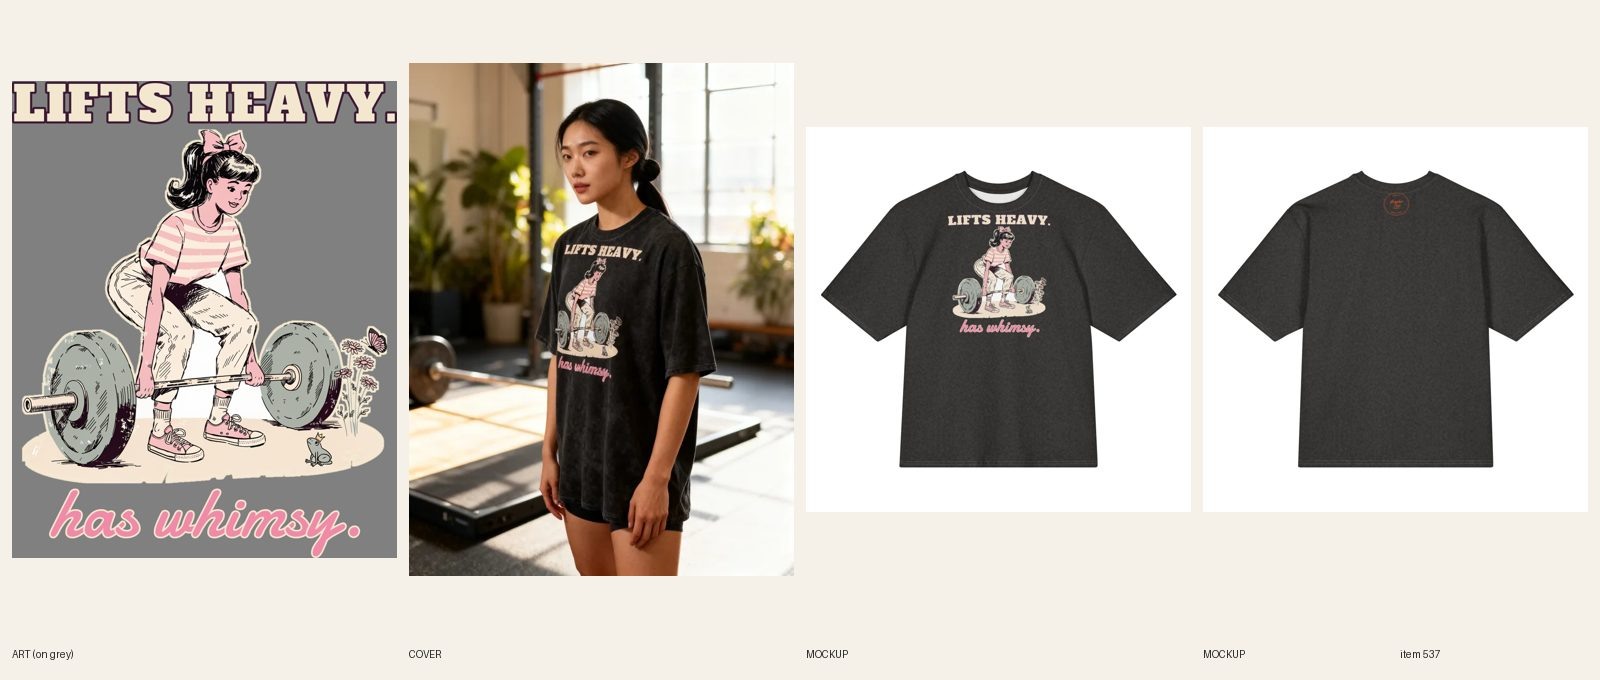
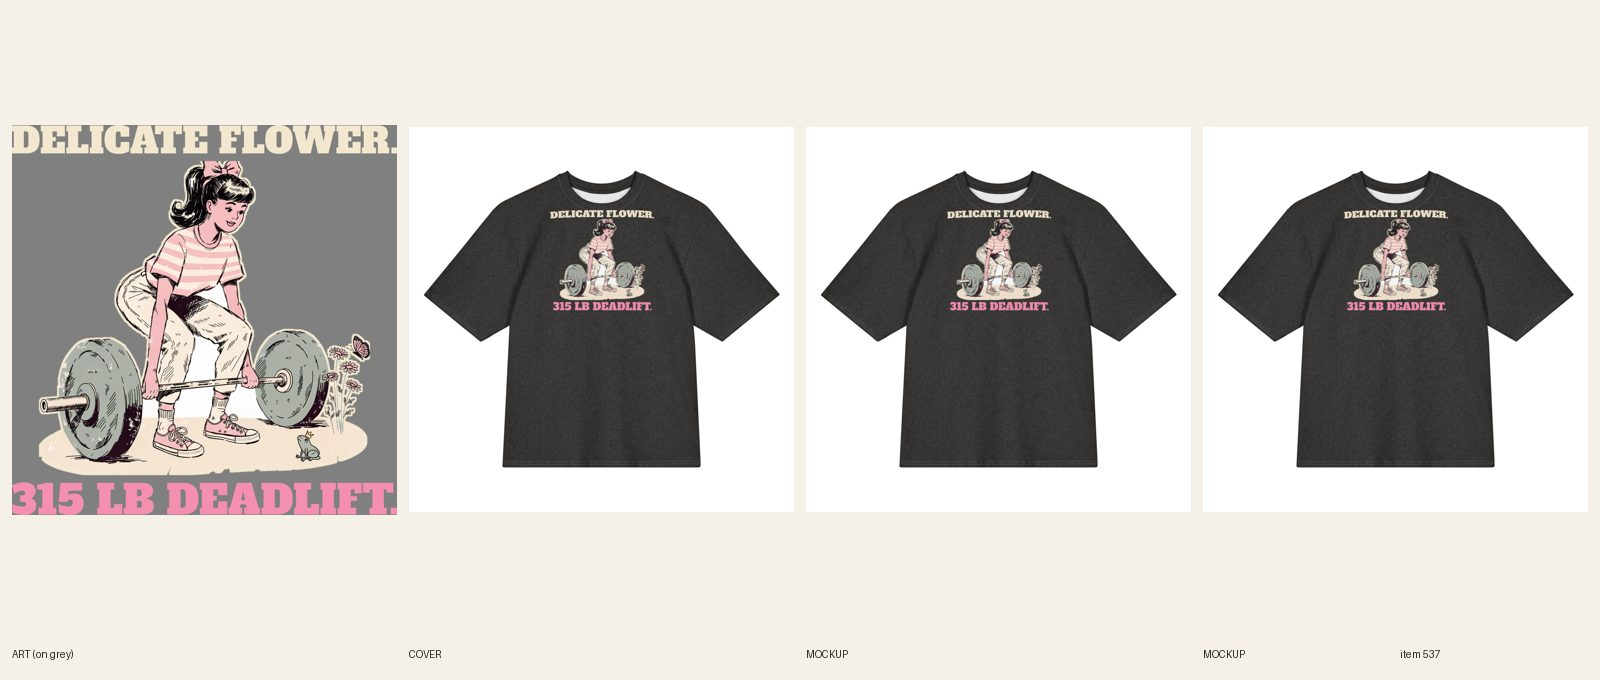
[E] review 537 redid #537 Women's Gym pump cover (line + type: DELICATE FLOWER. / 315 LB DEADLIFT., same bow-deadlifter art, Alfa Slab One, washed black ground, 10/10 synced). REVIEW. fal $0.

Changed region(s): [[0.0, 0.0926, 0.5, 0.8647], [0.8438, 0.2779, 0.9062, 0.4632], [0.5938, 0.3088, 0.6562, 0.4941]]

diff --git a/docs/pipeline/537-gym-pump-cover-lifts-heavy-has-whimsy.md b/docs/pipeline/537-gym-pump-cover-lifts-heavy-has-whimsy.md
@@ -1,4 +1,4 @@
-status: BUILDING [E] 2026-10-20 08:46
+status: REVIEW
 lane: E
 type: new
 id: 537
@@ -37,3 +37,4 @@ kd: 44
 - 2026-10-18 14:40 UTC builder [E]: REDO lettering done. 'has whimsy.' re-lettered in Lobster, pink #f58fb0 with a 44 px cream keyline, 3150 px wide in the 3267 px print (was thin Damion). Light file n/a (all-over washed black). Phone-size read on the darkest mockup: both lines read. Print 1800 px (12 in) wide; new Printful front file 1088891391, 10/10 variants resynced; new front mockup, cover (registry 877, seedream 1 call $0.06, first letter clear, nothing over print), 2 close-ups recut; old media deleted. Stays ACTIVE. REVIEW.
 - 2026-10-18 15:40 UTC director: LIVE (lettering REDO passed): has whimsy. in bold Lobster pink with a cream keyline reads at phone size on the washed black mockup and the new cover; still ACTIVE on Online Store/Headless/Google & YouTube; audit --handle PASS 0 warn.
 - 2026-10-18 17:22 UTC director: QUALITY RESET grade C (new line + type), REDO. The product stays ACTIVE (same handle, URL, title keyword). 1. Line (R3.12, quality-reset 'Lines'): "LIFTS HEAVY. / has whimsy.": Calibration step back: noun plus mild aside; thin pink script. Write 5 candidates, keep the one a stranger laughs at in 3 seconds without backstory; kill lines that only describe the picture; if none of the 5 is funny, PARK it. 2. Quality reset type bar (docs/backlog/quality-reset.md, 'The new bar'): headline at least 90% of the art width, heavy, colors pulled from the art; second line at least 45% of the headline's height, never a thin script on a dark or mid garment; use the lettering as a shape (arch, stacked lockup, words breaking into the art), not a plain bar above and a script line below; no font used on more than 1 in 6 of the last 30 designs. 3. Keep the art if it carries the new line, else one new illustration (R4/R5). New print means a new cover per R6.10, copy line one rewritten for the new joke (R8.3), and a fresh review sheet (R7.7). While quality-reset.md says PAUSED, only lane A builds, and only the samples step 2 names.
+- 2026-10-20 08:52 UTC builder [E]: REDO 537 (C grade, line + type) done in place (stays ACTIVE, handle unchanged; title now Women's Gym – Delicate Flower, 315 LB Deadlift Pump Cover). 5 candidates: 'LIFTS HEAVY. has whimsy.' (old); 'DELICATE FLOWER. / 315 LB DEADLIFT.'; 'HEAVY LIFTS. SOFT HEART.'; 'FRAGILE: HANDLE WITH 225 LBS.'; 'DEADLIFTS & DAISIES'. Kept DELICATE FLOWER. / 315 LB DEADLIFT. (contrast joke, the bow-wearing deadlifter with daisies shows it in 3 seconds). Same art (cropped from the live print, no fal, $0). Alfa Slab One, both lines the full print width: cream headline, pink punchline, both heavy (punchline about 113% of the headline's height). Print 12 in wide on the 5250 x 6750 front panel over the same washed-black texture. Light file n/a (all-over washed black, as before). New front file 1090264983, back and sleeve files unchanged; verified 10/10 synced on the new front file, back logo unchanged. Front mockup and the two close-ups replaced in place, back alt, title/SEO/copy/FAQs rewritten. Phone-size read OK. Cover: AI cover shows the old words; handle added to retired-covers.json. audit PASS 0 warn, build OK. Sheet docs/review/537.jpg.

diff --git a/docs/intake-log.md b/docs/intake-log.md
@@ -1,4 +1,5 @@
 2026-10-20 08:47 UTC — [D] Director run: inbox nothing new. 6 LIVE (cap): #443 #552 #554 #561 #635 #382, audit PASS (#554 #561 SEO titles added). Reviewed 16: 12 approved and held (#387 #389 retitled), 4 REDO (#397 stock line, #507 geyser still a rectangle, #509 shield scene, #610 stock Etsy line). Builder card 7j (no more SORRY/BOOKED lines). READY: A 13, B 12, C 12, E 12. No Telegram (digest not due, nothing for Sam). Lock released.
+2026-10-20 08:52 UTC — [E] Builder run: redid #537 Women's Gym pump cover (line + type: DELICATE FLOWER. / 315 LB DEADLIFT., same bow-deadlifter art, Alfa Slab One, washed black ground, 10/10 synced). REVIEW. fal $0.
 2026-10-20 08:46 UTC — [E] Builder run: redid #652 Women's Lineman crewneck (line + type: DINNER'S AT 6. / WEATHER PERMITTING., same line-wife art, Bevan, Navy + Sand files, 12/12 synced). REVIEW. fal $0.
 2026-10-20 08:46 UTC — [E] Builder run: redid #631 Men's Grandpa crewneck (line + type: I'M THE REASON / DAD IS LIKE THIS., same laughing-grandpa art, Bowlby One, Navy + Sand files, 12/12 synced). REVIEW. fal $0.
 2026-10-20 08:46 UTC — [E] Builder run: redid #628 Women's Bear hoodie (line + type: I'LL SLEEP / IN MARCH., same mama-bear art, Alfa Slab One, Navy + Sand files, 12/12 synced). REVIEW. fal $0.
